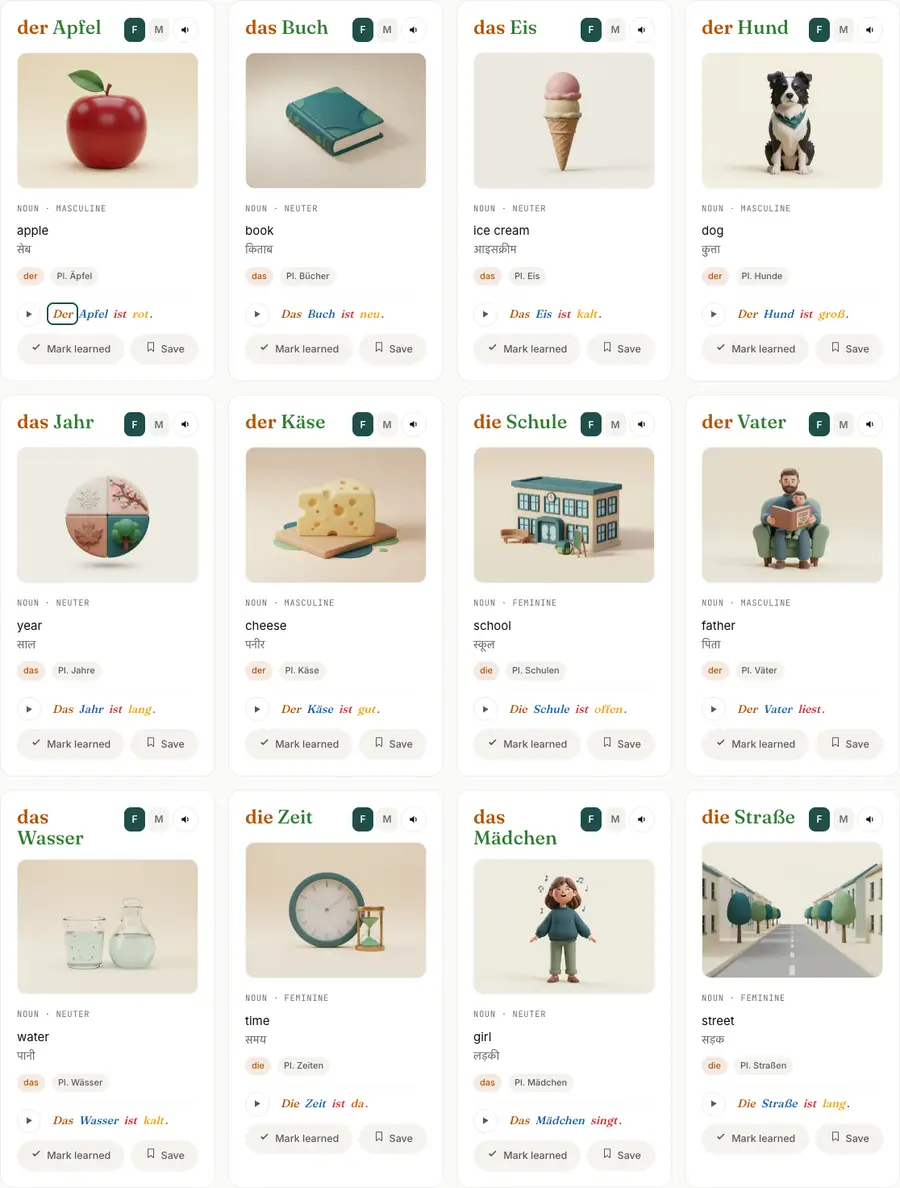
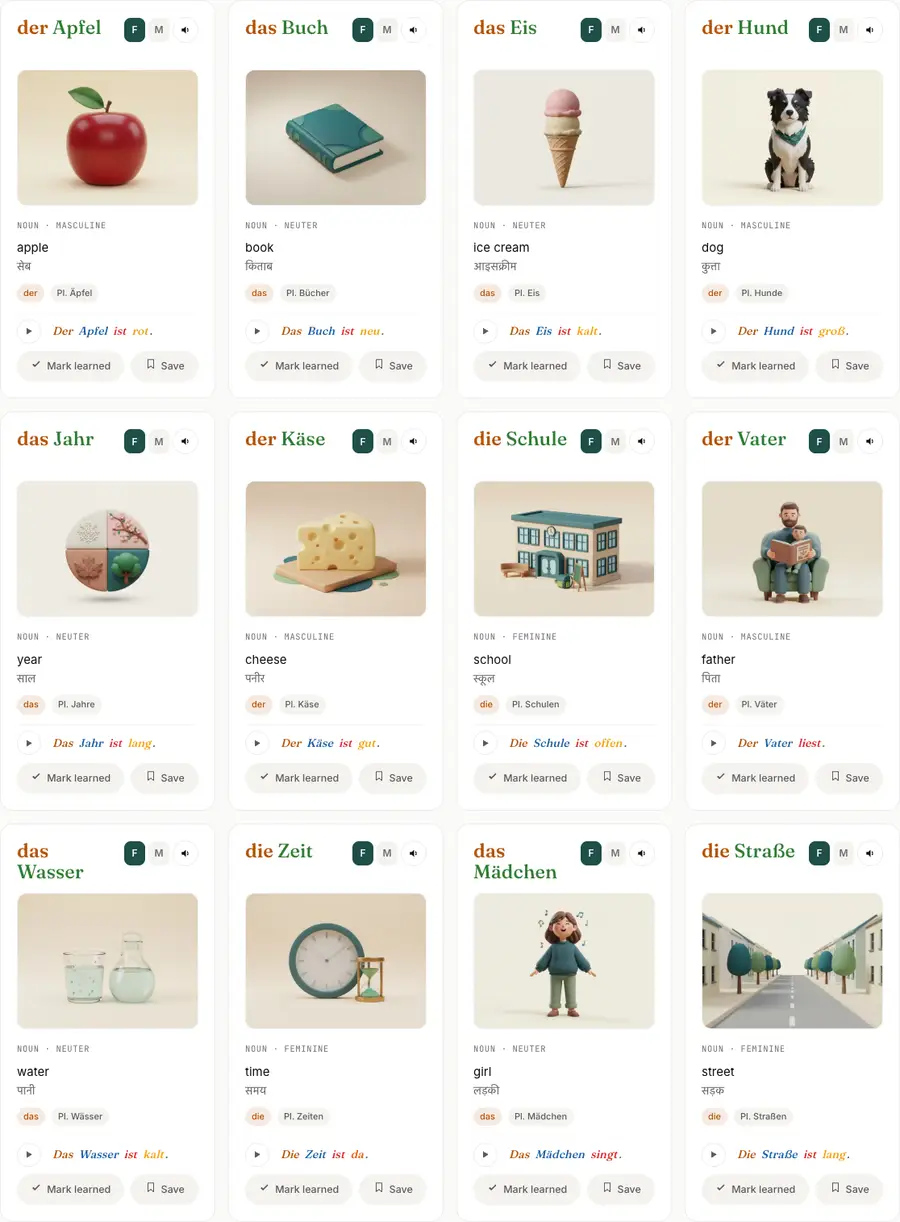
fix(vocab): pilot readiness — row alignment, A1·01-only cache bust, phone image size
- Multi-column grid: image cards reserve two headword lines, so images line
  up across a row when a headword wraps (das Wasser, das Mädchen: was +21px).
- Caching: prod serves assets max-age=14400. A1·01 alone now loads
  chapter.css?v=23 / chapter-app.js?v=37, so returning visitors get the image
  renderer; the other 257 pages keep v=22/v=36. Tests pin the pilot exception;
  the next site-wide bump must be >= v=24/v=38. Inline fallback sizing removed
  (no longer needed); only the per-image ratio stays inline.
- Phones: image capped at 256px (desktop cards show 225-267px), so the list
  at 390px is 468px shorter (card 554 -> 515px).
- docs: caching note, final screenshots incl. 320px.

diff --git a/chapter/chapter-a1-1-alphabet.html b/chapter/chapter-a1-1-alphabet.html
@@ -50,7 +50,7 @@
 <link rel="preconnect" href="https://fonts.googleapis.com">
 <link rel="preconnect" href="https://fonts.gstatic.com" crossorigin>
 <link href="https://fonts.googleapis.com/css2?family=Inter:wght@400;500;600;700&family=Fraunces:opsz,wght@9..144,300;9..144,400;9..144,500;9..144,600;9..144,700&family=JetBrains+Mono:wght@400;500&family=Noto+Sans+Devanagari:wght@400;500&display=swap" rel="stylesheet">
-<link rel="stylesheet" href="chapter.css?v=22">
+<link rel="stylesheet" href="chapter.css?v=23">
 <link rel="stylesheet" href="../public/kw-word-pop.css?v=1">
 <link rel="icon" href="../favicon.ico" sizes="48x48"><link rel="icon" type="image/png" sizes="32x32" href="../favicon-32x32.png"><link rel="icon" type="image/png" sizes="16x16" href="../favicon-16x16.png">
 <link rel="apple-touch-icon" href="../apple-touch-icon.png">
@@ -192,7 +192,7 @@
 <script src="story-lexicon-public.js"></script>
 <script src="tokenizer.js"></script>
 <script src="../kw-access.js?v=3"></script>
-<script src="chapter-app.js?v=36"></script>
+<script src="chapter-app.js?v=37"></script>
 <script src="chapter-story.js?v=7"></script>
 <script src="chapter-tutor.js?v=9"></script>
 

diff --git a/chapter/chapter.css b/chapter/chapter.css
@@ -670,6 +670,12 @@ img { max-width: 100%; display: block; }
 .vword-fig picture, .vword-fig img { display: block; width: 100%; height: 100%; }
 .vword-fig img { object-fit: cover; -webkit-user-drag: none; user-select: none; }
 .vword--img .vword-pos { padding-top: 12px; }
+/* Multi-column grid: reserve two headword lines (2 × 24px × 1.1) so a wrapped
+   headword ("das Wasser") does not push its image below its row neighbours'. */
+@media (min-width: 721px) { .vword--img .vword-top { min-height: 53px; } }
+/* One column on phones: the same image size as on desktop cards, so the list
+   stays scannable (≈ 1.7 cards per screen at 390px instead of 1.5). */
+@media (max-width: 720px) { .vword-fig { max-width: 256px; } }
 .vword-pos { font-family: var(--font-mono); font-size: 10.5px; letter-spacing: 0.06em; text-transform: uppercase; color: var(--ink-tertiary); padding-top: 6px; }
 .vword-en { font-size: 15px; color: var(--ink-primary); margin-top: 8px; }
 .vword-hi { font-size: 14px; color: var(--ink-secondary); }

diff --git a/chapter/chapter-app.js b/chapter/chapter-app.js
@@ -1944,11 +1944,10 @@
     const pic = el('picture', {},
       formats.slice(0, -1).map((f) => el('source', { type: 'image/' + f, srcset: srcset(f), sizes })),
       img);
-    // Essential sizing is inline too, so a stale cached chapter.css (the shared
-    // stylesheet's ?v= is not bumped for this pilot) can never show an
-    // oversized image; chapter.css adds the finish.
-    const fig = el('figure', { class: 'vword-fig', style: 'aspect-ratio:' + ratioW + ' / ' + ratioH + ';width:100%;max-width:320px;margin:12px auto 4px;overflow:hidden' }, pic);
-    img.style.cssText = 'display:block;width:100%;height:100%;object-fit:cover';
+    // Pages that declare images load chapter.css/chapter-app.js under their own
+    // ?v= (A1·01: v=23/v=37), so sizing lives in chapter.css; only the
+    // per-image ratio is inline.
+    const fig = el('figure', { class: 'vword-fig', style: 'aspect-ratio:' + ratioW + ' / ' + ratioH }, pic);
     return fig;
   }
   function learnBtn(w) {

diff --git a/docs/visual-vocab/README.md b/docs/visual-vocab/README.md
@@ -15,11 +15,21 @@ other chapter. Not deployed.
 ```
 
 Renderer: `vocabFigure()` in `chapter/chapter-app.js`. Lazy-loaded, async decode,
-fixed 4:3 box (no layout shift), max 320 px wide. A missing file removes the
+fixed 4:3 box (no layout shift), max 320 px wide (256 px on phones). On
+multi-column layouts image cards reserve two headword lines, so images line up
+across a row even when a headword wraps (das Wasser, das Mädchen). A missing file removes the
 figure and the card falls back to text-only. `scripts/vocab-images.test.mjs`
 checks that every declared file exists, is ≤ 60 KB, has alt text, and is listed in
 `.github/pages-allowlist.txt`. `scripts/lexicon-split.mjs` ignores `img`, so
 English alt text never enters the public German dictionary.
+
+## Caching
+
+Production serves assets with `cache-control: max-age=14400` (4 h). The A1·01 page
+alone loads `chapter.css?v=23` and `chapter-app.js?v=37` (data `?v=8`), so returning
+visitors get the image renderer immediately. The other 257 chapter pages keep
+`v=22`/`v=36`; the new files are backward compatible for them. **The next site-wide
+bump must use v=24 / v=38 or higher** (enforced by `scripts/chapter-responsive.test.mjs`).
 
 ## Assets
 
@@ -71,3 +81,4 @@ the example sentence, the picture shows that sentence (Vater *liest*, Mädchen *
 |---|---|---|
 | Desktop | ![](before-desktop.webp) | ![](after-desktop.webp) |
 | Mobile 390 px | ![](before-mobile.webp) | ![](after-mobile.webp) |
+| Mobile 320 px | — | ![](after-320.webp) |
